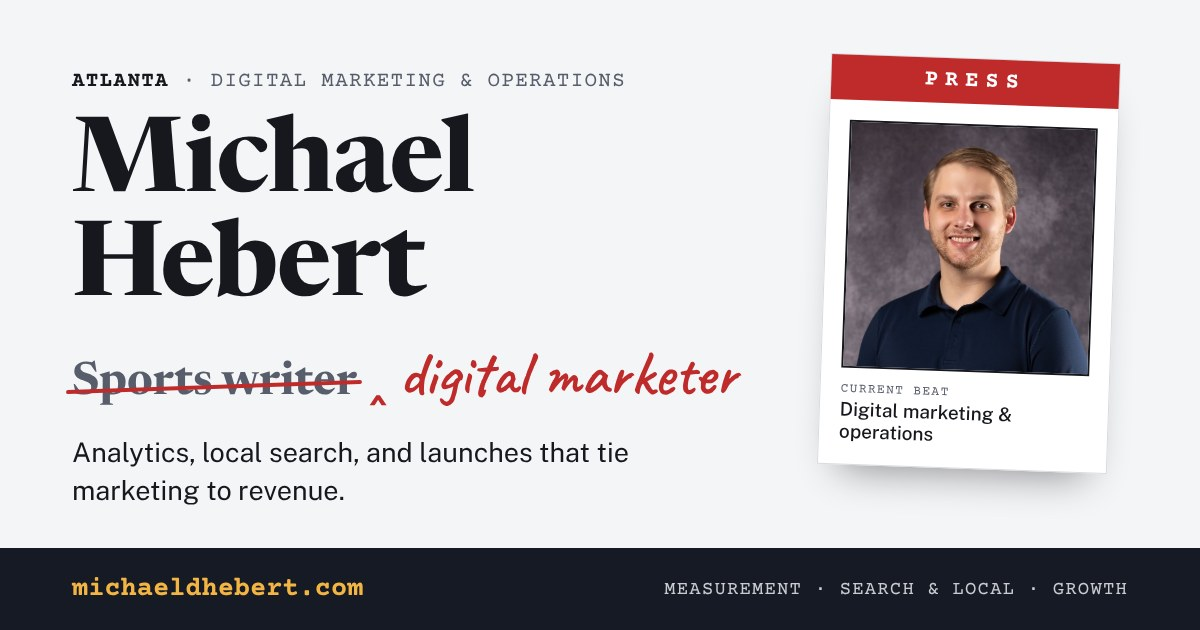
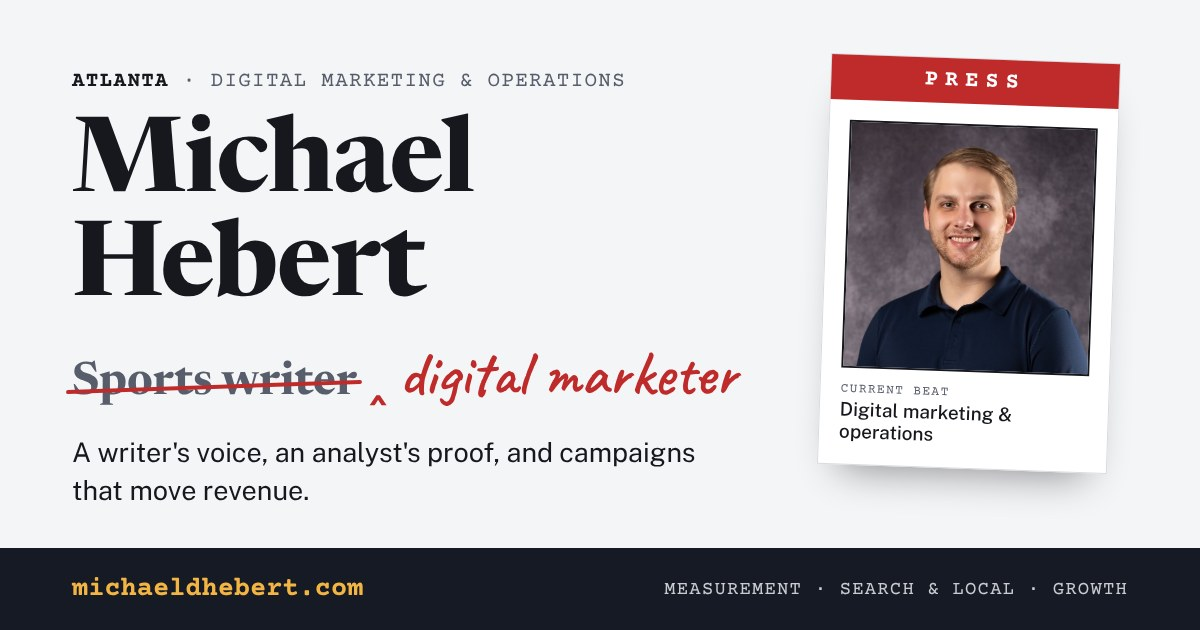
New hero hook, preview line, and share description
Claude-Session: https://claude.ai/code/session_01DYxgDeWEDm6Fo2kiSwktL5

Changed region(s): [[0.0617, 0.6937, 0.5858, 0.8143]]

diff --git a/public/index.html b/public/index.html
@@ -4,7 +4,7 @@
 <meta charset="utf-8">
 <meta name="viewport" content="width=device-width, initial-scale=1, viewport-fit=cover">
 <title>Michael Hebert | Digital Marketing &amp; Operations</title>
-<meta name="description" content="Michael Hebert is an Atlanta digital marketing manager specializing in analytics, local SEO, and digital operations for multi-unit brands, with a background in sports journalism.">
+<meta name="description" content="Michael Hebert is an Atlanta digital marketing manager for a 760+ restaurant brand, pairing analytics, local SEO, and a writer's voice to run campaigns that produce revenue.">
 <link rel="canonical" href="https://michaeldhebert.com/">
 <meta property="og:url" content="https://michaeldhebert.com/">
 <meta property="og:image" content="https://michaeldhebert.com/assets/og-image.jpg">
@@ -13,7 +13,7 @@
 <meta property="og:image:alt" content="Michael Hebert, digital marketing and operations, with headshot">
 <meta property="og:type" content="profile">
 <meta property="og:title" content="Michael Hebert | Digital Marketing &amp; Operations">
-<meta property="og:description" content="Michael Hebert is an Atlanta digital marketing manager specializing in analytics, local SEO, and digital operations for multi-unit brands, with a background in sports journalism.">
+<meta property="og:description" content="A writer's voice, an analyst's proof, and campaigns that move revenue. Digital marketing and operations for 760+ restaurants.">
 <meta property="profile:first_name" content="Michael">
 <meta property="profile:last_name" content="Hebert">
 <meta name="twitter:card" content="summary_large_image">
@@ -91,6 +91,7 @@ p{margin:0}
 .proof .insert{font-family:var(--font-hand); color:var(--pencil); font-size:1.25em; line-height:1; white-space:nowrap}
 @keyframes strike{from{transform:rotate(-2deg) scaleX(0)} to{transform:rotate(-2deg) scaleX(1)}}
 .lede{font-size:1.1rem; max-width:38rem; margin-top:1.5rem; color:var(--ink)}
+.lede .brand{font-style:italic}
 .lede em{font-family:var(--font-display); font-size:1.15em}
 .ctas{display:flex; gap:.75rem; flex-wrap:wrap; margin-top:2rem}
 .btn{font-family:var(--font-type); font-size:.9rem; padding:.7rem 1.1rem; border:1.5px solid var(--ink); text-decoration:none; background:transparent; color:var(--ink); cursor:pointer}
@@ -251,7 +252,7 @@ footer{padding-block:1.5rem 2.5rem; font-family:var(--font-type); font-size:.75r
       <p class="proof" aria-label="Sports writer, edited to digital marketer">
         <span class="struck">Sports writer</span><span class="caret" aria-hidden="true">&#8248;</span><span class="insert">digital marketer</span>
       </p>
-      <p class="lede">I run digital marketing and operations for a 760+ restaurant brand: the analytics, local search, and launches that tie marketing to revenue. Before that, I spent five years covering sports on deadline. The job changed. The method didn't. <em>Find what the data is actually saying, verify it, and explain it plainly to the people who act on it.</em></p>
+      <p class="lede">Every role I've had has compounded on the last. Newsrooms taught me to find the story and tell it on deadline. Local SEO taught me how people search, and franchise marketing taught me what makes them buy. Now I'm at the center of the digital ecosystem for a 760+ restaurant brand in one of the most competitive industries there is, telling the world about <i class="brand">Church's Texas Chicken&reg;</i>. I pair technical chops with a writer's voice and a customer's eye, back every call with data, and focus on the campaigns that actually produce revenue. <em>Find what the data is actually saying, and tell it plainly.</em></p>
       <div class="ctas">
         <a class="btn primary" href="#work">See the work</a>
         <a class="btn" href="assets/Michael-Hebert-Resume.pdf" target="_blank" rel="noopener">Resume</a>
@@ -301,7 +302,7 @@ footer{padding-block:1.5rem 2.5rem; font-family:var(--font-type); font-size:.75r
     </div>
 
     <div class="org">
-      <div class="org-head"><h3>Church's Texas Chicken</h3><span class="slug">Digital Operations Manager &middot; 2025 to present</span></div>
+      <div class="org-head"><h3>Church's Texas Chicken&reg;</h3><span class="slug">Digital Operations Manager &middot; 2025 to present</span></div>
       <div class="boxes">
         <article class="box">
           <div class="score">
@@ -437,7 +438,7 @@ footer{padding-block:1.5rem 2.5rem; font-family:var(--font-type); font-size:.75r
   <section id="clips">
     <div class="sec-head">
       <h2>Clips</h2>
-      <p>Five years as a published, credentialed sports journalist. A few of the stories I'm proudest of.</p>
+      <p>Five years as a full-time sports journalist, and I still freelance when time allows. A few of the stories I'm proudest of.</p>
     </div>
     <div class="clips">
       <div class="series">
@@ -503,7 +504,7 @@ footer{padding-block:1.5rem 2.5rem; font-family:var(--font-type); font-size:.75r
       <p>From the press box to the marketing team, in order.</p>
     </div>
     <ol class="career">
-      <li><span class="when">2025 &ndash; now</span><span class="who">Church's Texas Chicken<span>Digital Operations Manager &middot; Atlanta</span></span><span class="what">Analytics, tracking, local search, and digital operations across web and app for 760+ restaurants.</span></li>
+      <li><span class="when">2025 &ndash; now</span><span class="who">Church's Texas Chicken&reg;<span>Digital Operations Manager &middot; Atlanta</span></span><span class="what">Analytics, tracking, local search, and digital operations across web and app for 760+ restaurants.</span></li>
       <li><span class="when">2024 &ndash; 2025</span><span class="who">JAN-PRO Systems International<span>Digital Marketing Manager &middot; Alpharetta</span></span><span class="what">Rebrand content strategy, hyperlocal SEO, and CRM migration for 117 franchise markets.</span></li>
       <li><span class="when">2021 &ndash; 2024</span><span class="who">LoadUp Technologies<span>Digital Marketing Specialist &middot; Atlanta</span></span><span class="what">SEO content, social media, reviews, and local listings for a national junk removal service.</span></li>
       <li><span class="when">2019 &ndash; 2021</span><span class="who">TimesDaily <span class="tag news">Newsroom</span><span>Sports Writer &middot; Florence, Ala.</span></span><span class="what">Beat reporter for University of North Alabama athletics and area high schools, writing on daily deadlines and producing video for social.</span></li>
